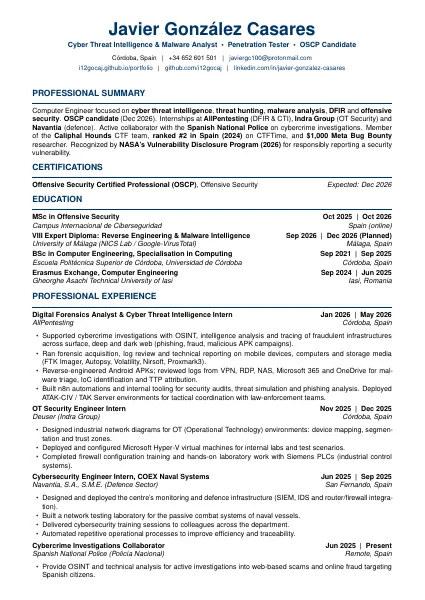
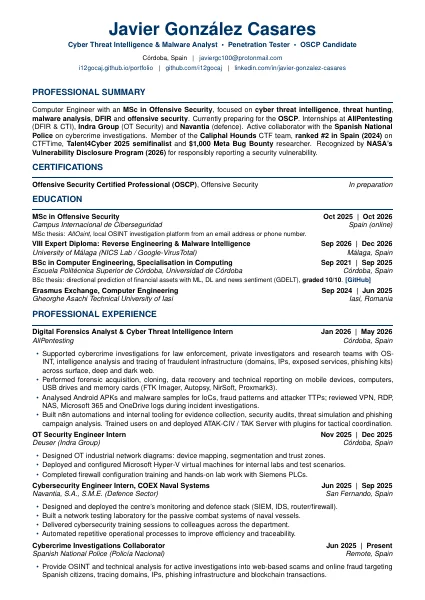
Mark expert diploma completed, drop OSCP target date, refresh CV
- Diploma shown as completed (Sep 2026 - Dec 2026) across hero,
  milestones, about and background
- OSCP entry shows "In preparation" without a target date
- Fix the diploma date range broken by the previous dash cleanup
- Replace CV PDF and preview with the current version, without
  phone number or dated status lines

diff --git a/index.html b/index.html
@@ -233,8 +233,8 @@
           <a class="current-study" href="#background-0"
             ><span class="study-pin" aria-hidden="true"></span
             ><span
-              >Currently studying reverse engineering<br />&amp; malware
-              intelligence at <strong>Google’s GSEC, Málaga</strong>.</span
+              >Expert diploma in reverse engineering<br />&amp; malware
+              intelligence, <strong>Google’s GSEC, Málaga</strong>.</span
             ><svg
               class="icon"
               viewBox="0 0 24 24"
@@ -2006,7 +2006,7 @@
               ><strong>Offensive Security</strong
               ><span>Master’s degree · Completed</span></a
             ><a href="#background-0"
-              ><span class="milestone-year">Now</span
+              ><span class="milestone-year">2026</span
               ><svg
                 class="milestone-icon"
                 viewBox="0 0 24 24"
@@ -2015,7 +2015,7 @@
               >
                 <use href="assets/img/analysis-symbols.svg#bug"></use></svg
               ><strong>Reverse engineering &amp; malware</strong
-              ><span>Expert diploma · In progress at Google GSEC</span></a
+              ><span>Expert diploma · Completed at Google GSEC</span></a
             >
           </nav>
           <div class="background-layout">
@@ -2027,7 +2027,7 @@
                 Internacional de Ciberseguridad.
               </p>
               <p>
-                I’m now taking the Expert Diploma in Reverse Engineering and
+                I also completed the Expert Diploma in Reverse Engineering and
                 Malware Intelligence at Google’s Safety Engineering Center in
                 Málaga.
               </p>
@@ -2294,7 +2294,7 @@
                         <use href="assets/img/analysis-symbols.svg#bug"></use>
                       </svg>
                       <span class="history-date"
-                        >In progress · 21 Sep: 14 Dec 2026</span
+                        >Completed · Sep 2026 - Dec 2026</span
                       ><span class="history-title"
                         >Expert Diploma in Reverse Engineering &amp; Malware
                         Intelligence<span class="organization"
@@ -2318,10 +2318,10 @@
                     </summary>
                     <div class="history-description">
                       <p>
-                        Currently studying how to analyse malicious software and
-                        understand how compiled programs work. Training includes
+                        Studied how to analyse malicious software and understand
+                        how compiled programs work. Training included
                         static and dynamic analysis, Frida instrumentation and
-                        YARA detection rules. The programme comprises 18 ECTS
+                        YARA detection rules. The programme comprised 18 ECTS
                         credits and 180 in-person hours at Google’s Safety
                         Engineering Center in Málaga.
                         <a
@@ -2396,7 +2396,7 @@
                         ></use>
                       </svg>
                       <span class="history-date"
-                        >Preparing · Target Dec 2026</span
+                        >In preparation</span
                       ><span class="history-title"
                         >OSCP certification preparation<span
                           class="organization"
@@ -2421,7 +2421,7 @@
                     <div class="history-description">
                       <p>
                         Preparing for OffSec’s practical penetration-testing
-                        certification, aiming for December 2026.
+                        certification.
                       </p>
                     </div>
                   </details>
